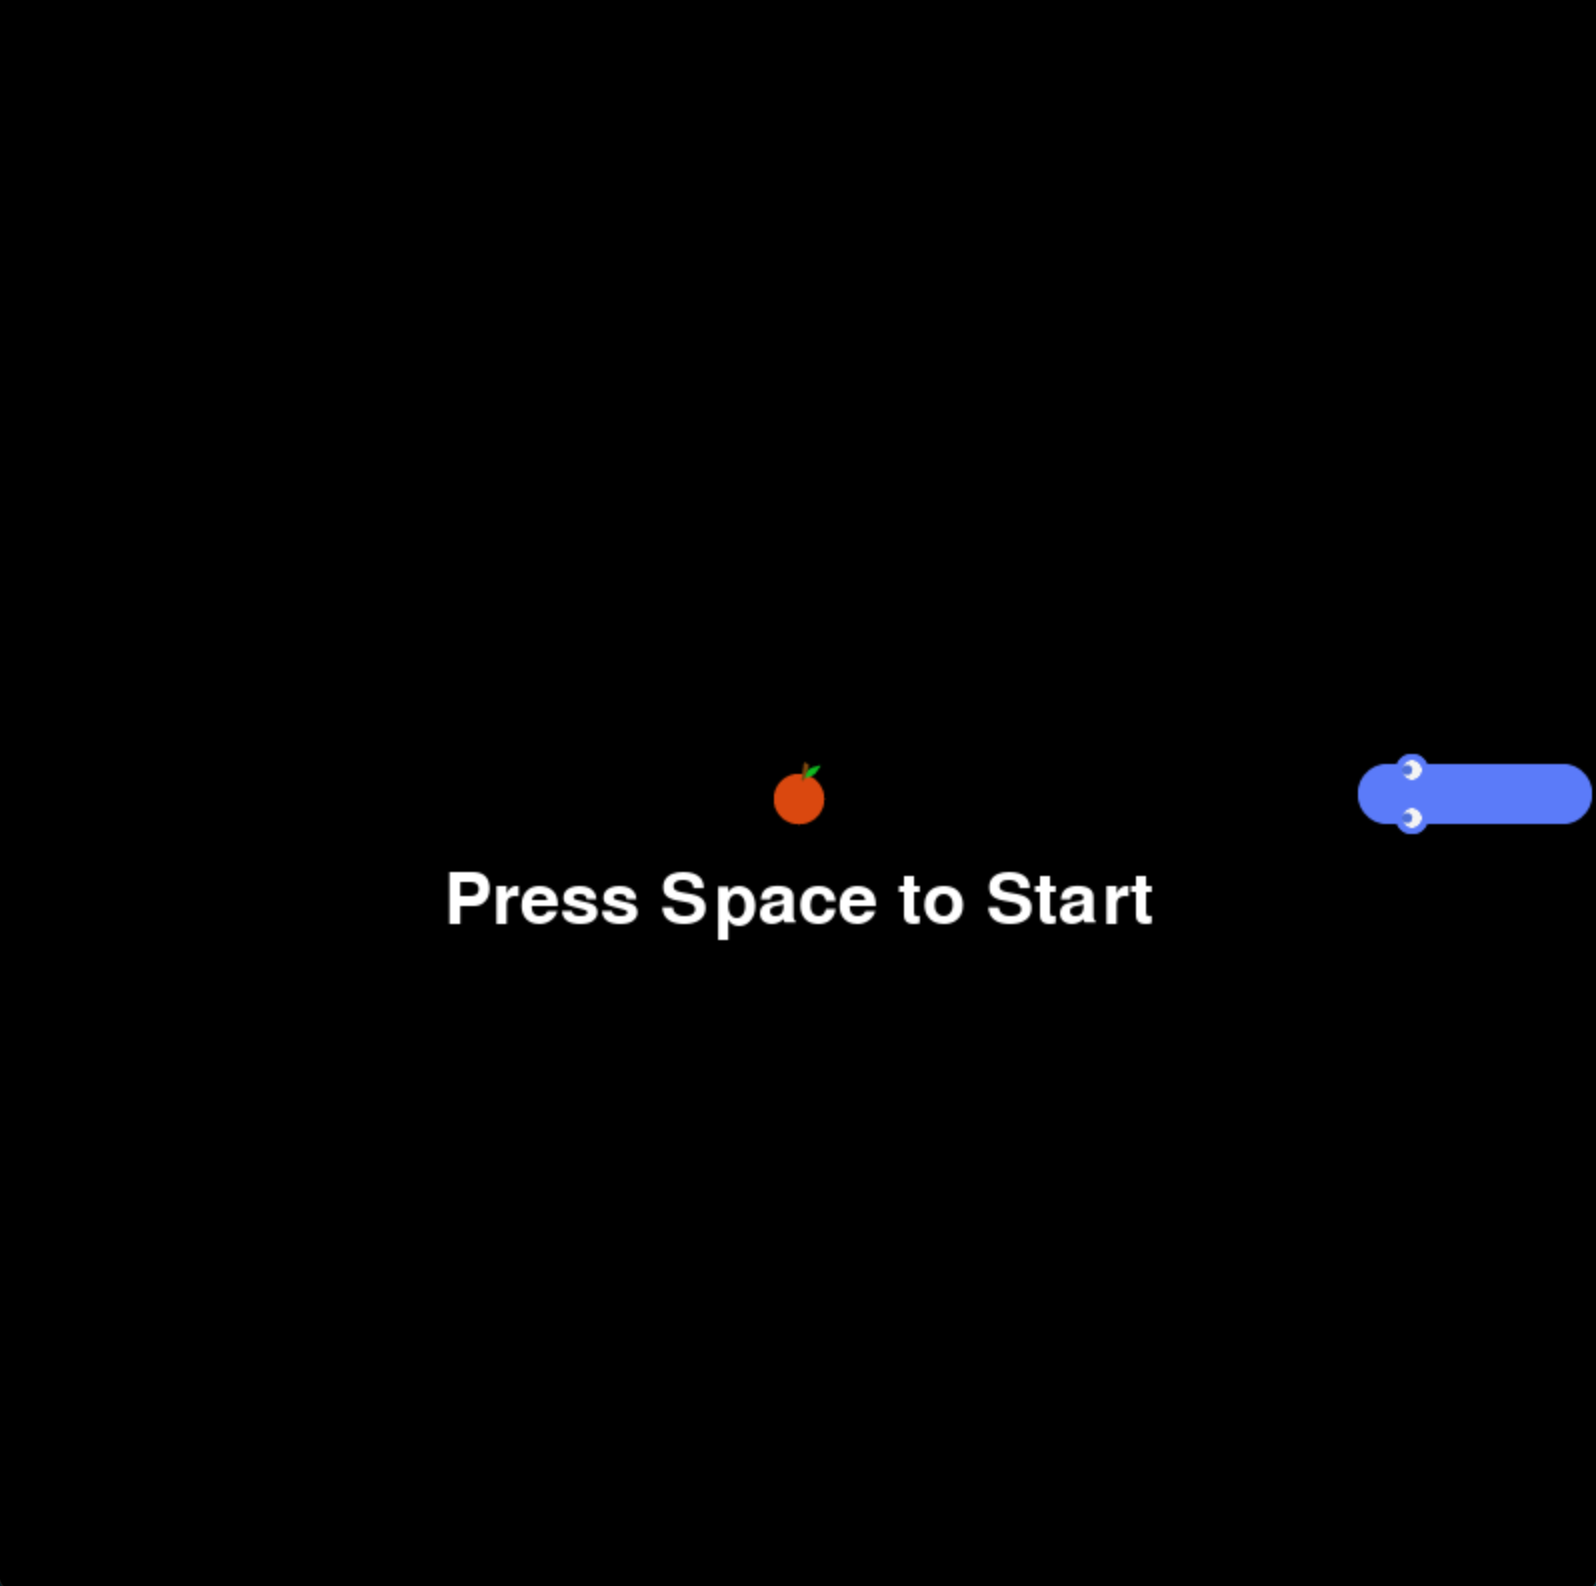
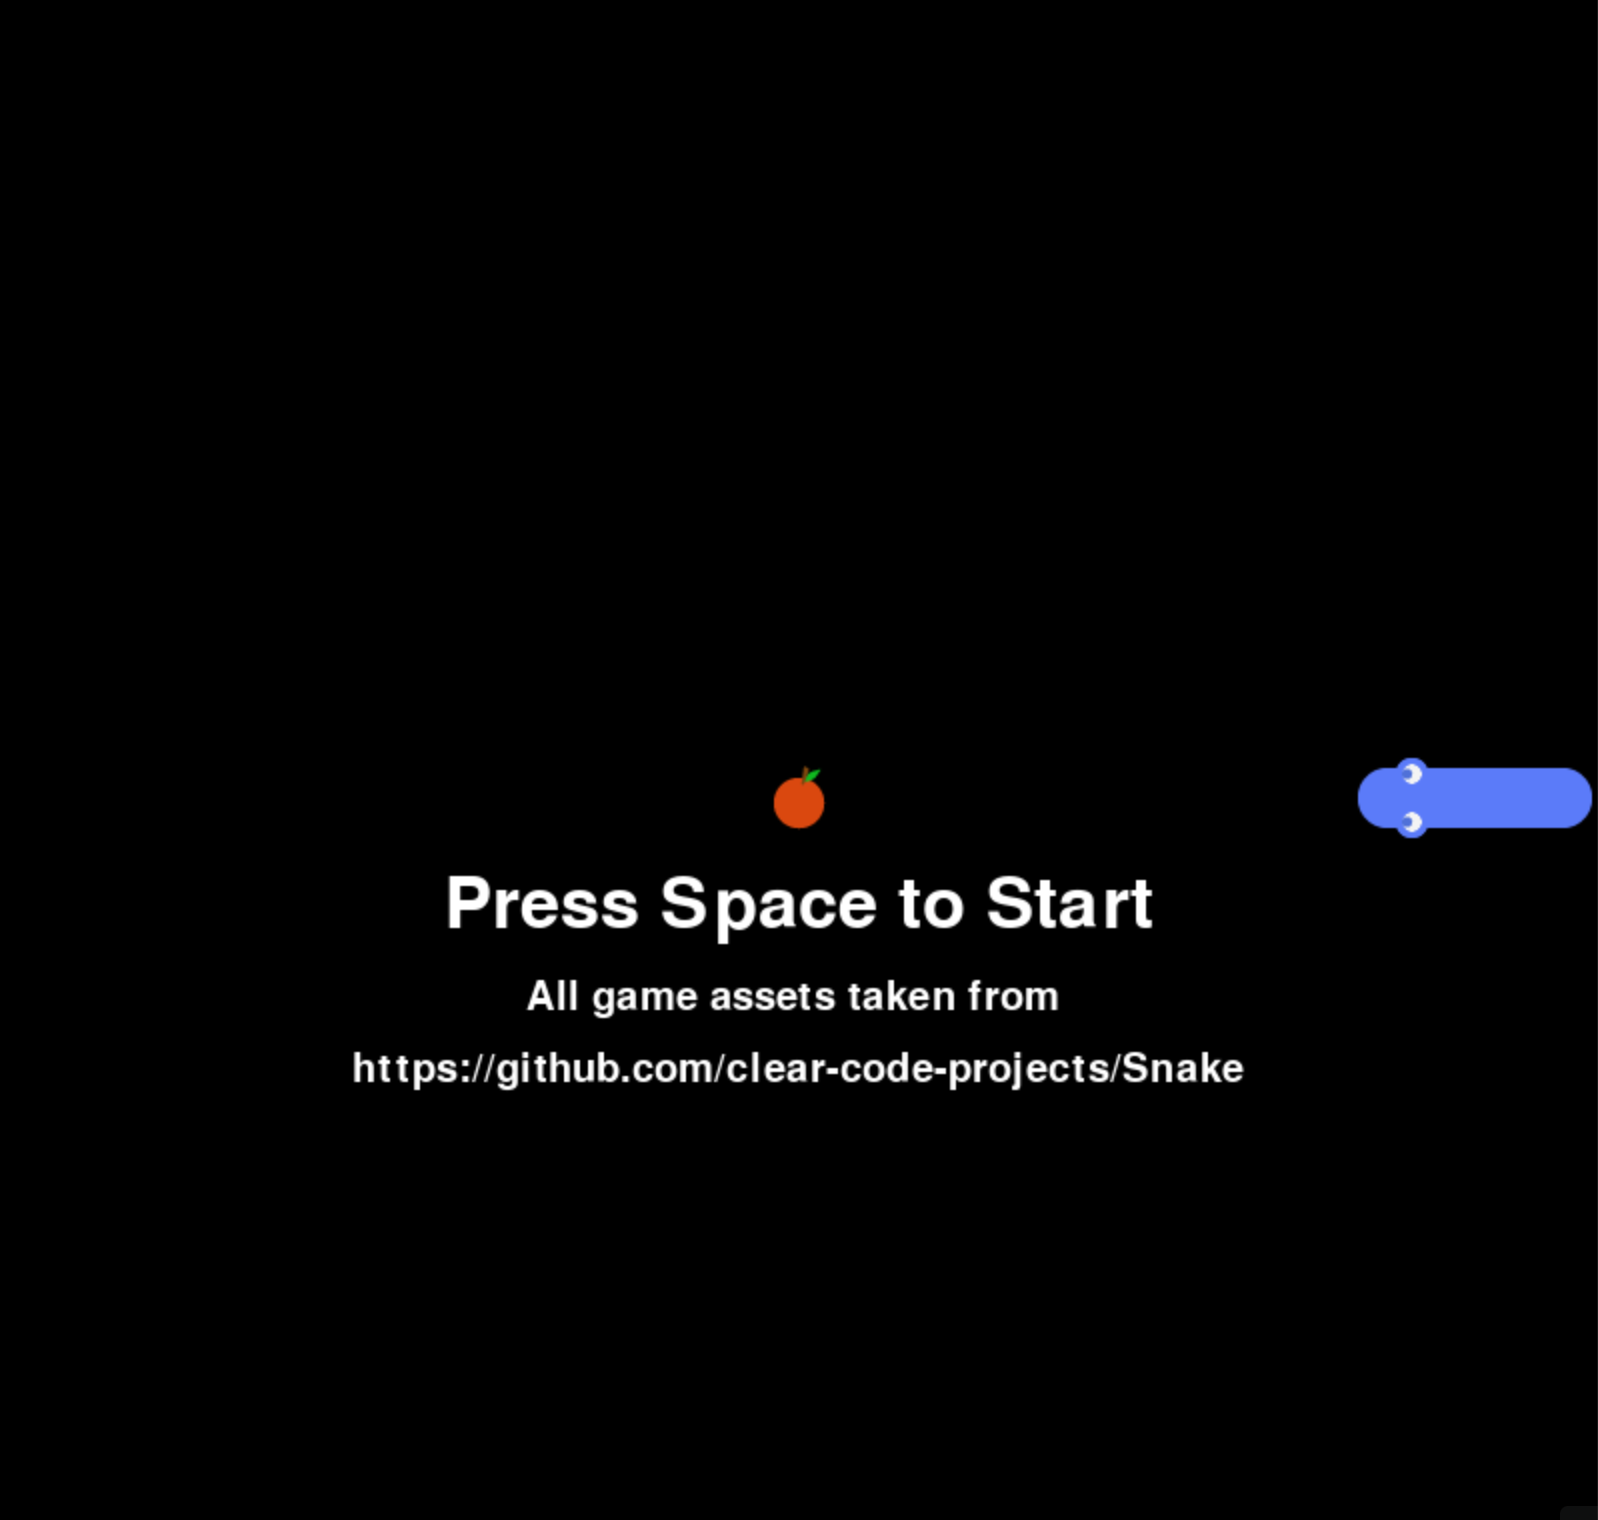
Add attribution

Changed region(s): [[0.2763, 0.4638, 0.7368, 0.6184], [0.2149, 0.6493, 0.7982, 0.7112], [0.8289, 0.4638, 1.0, 0.5566]]

diff --git a/main.py b/main.py
@@ -19,8 +19,13 @@ pygame.mixer.pre_init()
 pygame.init()
 pygame.display.set_caption("Classic Snake Game")
 default_font = pygame.font.Font(pygame.font.get_default_font(), 36)
+default_small_font = pygame.font.Font(pygame.font.get_default_font(), 20)
 start_message = default_font.render(
     "Press Space to Start", True, pygame.Color('white'))
+credits_message_1 = default_small_font.render(
+    "All game assets taken from ", True, pygame.Color('white'))
+credits_message_2 = default_small_font.render(
+    "https://github.com/clear-code-projects/Snake", True, pygame.Color('white'))
 snake_y_pos = (cell_number - 1) / 2
 static_snake = snake.Snake(_body=[Vector2(cell_number - 3, snake_y_pos), Vector2(cell_number - 2, snake_y_pos), Vector2(cell_number - 1, snake_y_pos)],
                            _direction=Vector2(-1, 0))
@@ -60,6 +65,11 @@ def main_menu():
         screen.blit(apple, apple_rect)
         screen.blit(start_message, start_message.get_rect(
             midtop=(apple_rect.centerx, apple_rect.centery + 36)))
+        start_rect = start_message.get_rect(midtop=screen.get_rect().center)
+        screen.blit(credits_message_1, credits_message_1.get_rect(
+            midtop=(start_rect.centerx, start_rect.centery + 36 * 2)))
+        screen.blit(credits_message_2, credits_message_2.get_rect(
+            midtop=(start_rect.centerx, start_rect.centery + 36 * 3)))
         static_snake.draw_snake()
         pygame.display.update()
 
